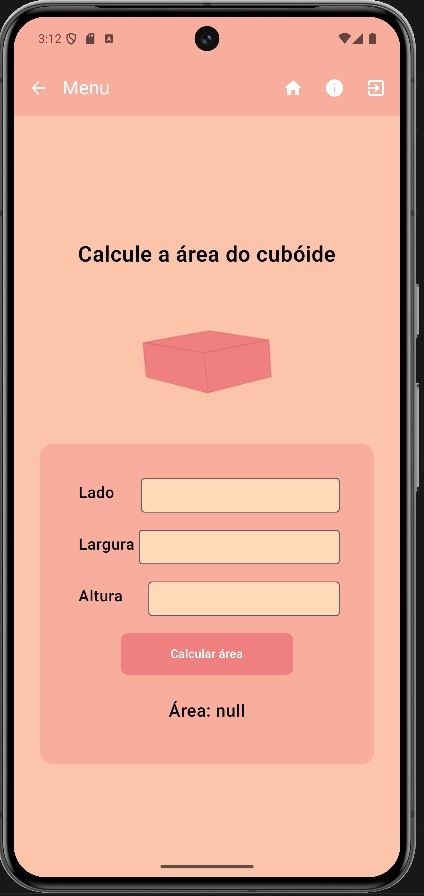
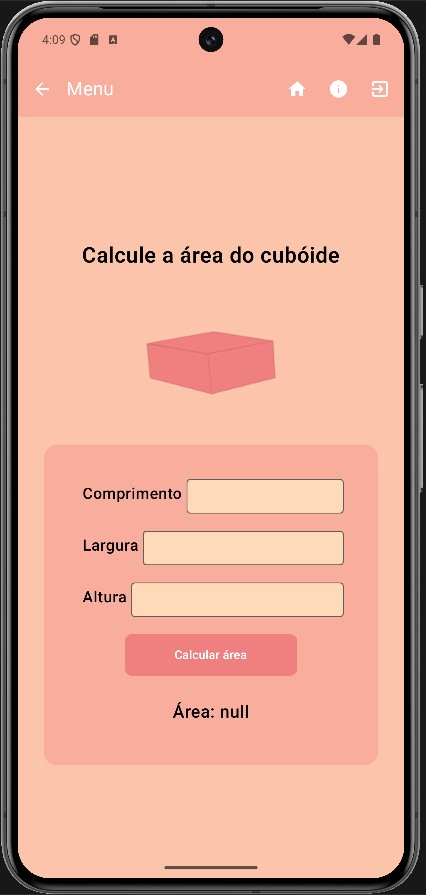
Projeto+

diff --git a/Aventura das Formas/AventuraDasFormas/app/src/main/java/com/example/aventuradasformas/ui/screens/FormasGeometricas.kt b/Aventura das Formas/AventuraDasFormas/app/src/main/java/com/example/aventuradasformas/ui/screens/FormasGeometricas.kt
@@ -1070,7 +1070,7 @@ fun Cuboide(navController: NavController) {
                     ) {
 
                         Text(
-                            text = "Lado",
+                            text = "Comprimento",
                             fontWeight = FontWeight.Medium,
                             fontSize = 18.sp,
                             modifier = Modifier.padding(5.dp)
@@ -1081,7 +1081,7 @@ fun Cuboide(navController: NavController) {
                                 comprimento = it
                             },
                             modifier = Modifier
-                                .fillMaxWidth(0.9f)
+                                .fillMaxWidth()
                                 .background(Color(0xFFFFDAB9), shape = RoundedCornerShape(9.dp))
                                 .height(40.dp)
                         )
@@ -1133,7 +1133,7 @@ fun Cuboide(navController: NavController) {
                                 altura = it
                             },
                             modifier = Modifier
-                                .fillMaxWidth(0.9f)
+                                .fillMaxWidth()
                                 .background(Color(0xFFFFDAB9), shape = RoundedCornerShape(9.dp))
                                 .height(40.dp)
                         )
